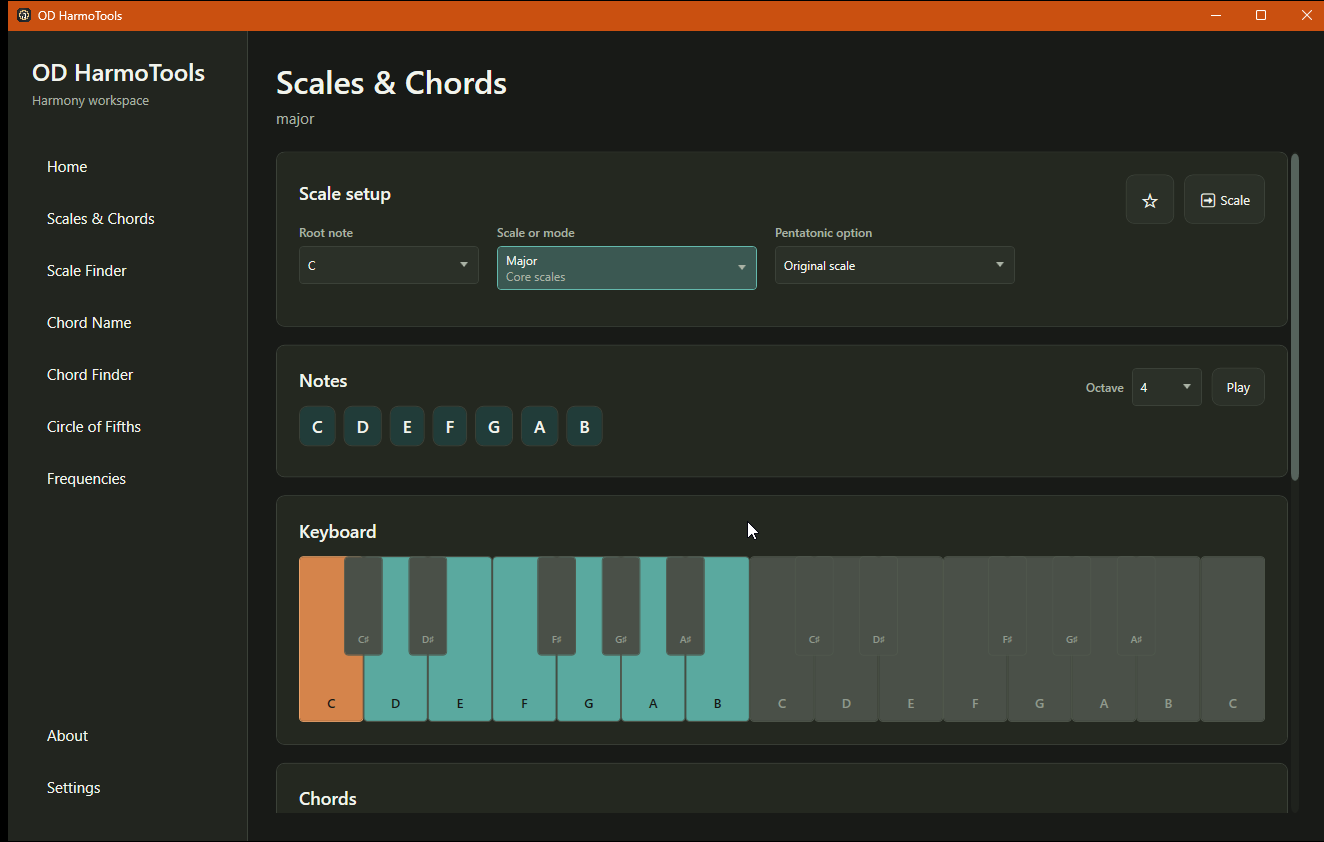
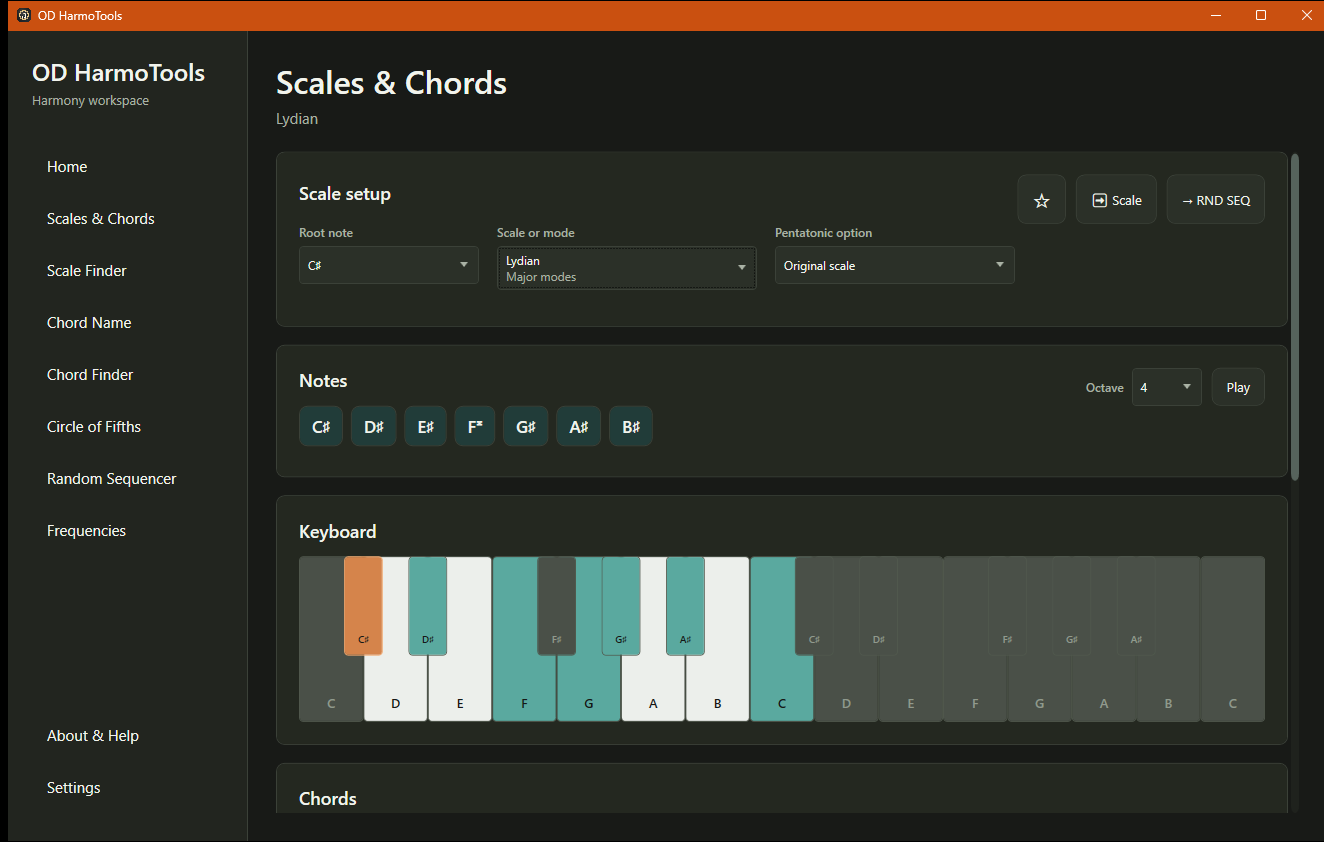
Modified: image 01 + Zoom effect

diff --git a/script.js b/script.js
@@ -74,7 +74,7 @@ function render(language) {
   document.querySelector('meta[name="description"]').content = t.description;
   document.querySelector('#navigation').innerHTML = `<a href="#tools">${t.nav[0]}</a><a href="#journey">${t.nav[1]}</a><a class="nav-cta" href="#support">${t.nav[2]}</a>`;
   document.querySelector('#site-content').innerHTML = `
-    <section class="hero section-shell"><div class="hero-copy reveal"><p class="eyebrow">${t.heroEyebrow}</p><h1>${t.hero}</h1><p class="hero-text">${t.heroText}</p><div class="hero-actions"><a class="button button-primary" href="https://www.dropbox.com/scl/fo/iadlivo97x9hukvjzwpe2/AFfq22me4XuTWIwW6AVAho8?rlkey=fbebfs3q4hlbw9xr5cmm4q097&dl=0" target="_blank" rel="noopener noreferrer">${t.download}</a><div class="coffee-button-holder hero-donation" data-bmc-button aria-label="${t.donateLabel}"></div><a class="text-link" href="#tools">${t.primary}</a><a class="text-link" href="#journey">${t.secondary}</a></div><p class="hero-donation-note">${t.donationNote}</p><dl class="hero-facts">${t.facts.map(([label, value]) => `<div><dt>${label}</dt><dd>${value}</dd></div>`).join('')}</dl></div><figure class="hero-visual reveal image-frame"><img src="${imagePath(screenshots[0])}" alt="${t.features[0][3]}"><figcaption>${t.heroCaption}</figcaption></figure></section>
+    <section class="hero section-shell"><div class="hero-copy reveal"><p class="eyebrow">${t.heroEyebrow}</p><h1>${t.hero}</h1><p class="hero-text">${t.heroText}</p><div class="hero-actions"><a class="button button-primary" href="https://www.dropbox.com/scl/fo/iadlivo97x9hukvjzwpe2/AFfq22me4XuTWIwW6AVAho8?rlkey=fbebfs3q4hlbw9xr5cmm4q097&dl=0" target="_blank" rel="noopener noreferrer">${t.download}</a><div class="coffee-button-holder hero-donation" data-bmc-button aria-label="${t.donateLabel}"></div><a class="text-link" href="#tools">${t.primary}</a><a class="text-link" href="#journey">${t.secondary}</a></div><p class="hero-donation-note">${t.donationNote}</p><dl class="hero-facts">${t.facts.map(([label, value]) => `<div><dt>${label}</dt><dd>${value}</dd></div>`).join('')}</dl></div><button class="hero-visual reveal screenshot image-frame" data-image="${imagePath(screenshots[0])}" data-caption="${t.heroCaption}" aria-label="${t.heroCaption}"><img src="${imagePath(screenshots[0])}" alt="${t.features[0][3]}"><span class="hero-caption">${t.heroCaption}</span></button></section>
     <section class="manifesto section-shell reveal"><p class="eyebrow">${t.manifestoEyebrow}</p><h2>${t.manifesto}</h2><p>${t.manifestoText}</p></section>
     <section class="tools" id="tools"><div class="section-shell section-intro reveal"><p class="eyebrow">${t.toolsEyebrow}</p><h2>${t.tools}</h2></div>${t.features.map((feature, index) => featureMarkup(feature, index, t.midiExport)).join('')}</section>
     <section class="journey section-shell reveal" id="journey"><p class="eyebrow">${t.journeyEyebrow}</p><h2>${t.journey}</h2><ol>${t.steps.map(([heading, body], index) => `<li><span>${String(index + 1).padStart(2, '0')}</span><strong>${heading}</strong><p>${body}</p></li>`).join('')}</ol></section>

diff --git a/styles.css b/styles.css
@@ -41,7 +41,7 @@ h1 em,h2 em { color:var(--teal); font-style:italic; }
 .hero-facts dd { margin:3px 0 0; }
 .image-frame { margin:0; overflow:hidden; background:var(--surface); border:1px solid var(--line); box-shadow:20px 20px 0 rgba(100,200,191,.08); }
 .image-frame img { display:block; width:100%; height:auto; }
-.hero-visual figcaption { padding:14px 18px; color:var(--muted); border-top:1px solid var(--line); font-size:13px; }
+.hero-caption { display:block; padding:14px 18px; color:var(--muted); border-top:1px solid var(--line); font-size:13px; }
 .manifesto { display:grid; grid-template-columns:.35fr 1.15fr .65fr; gap:36px; align-items:start; padding-block:105px; border-top:1px solid var(--line); }
 .manifesto .eyebrow { padding-top:12px; }
 .manifesto h2 { margin:0; font-size:clamp(38px,5vw,72px); }
